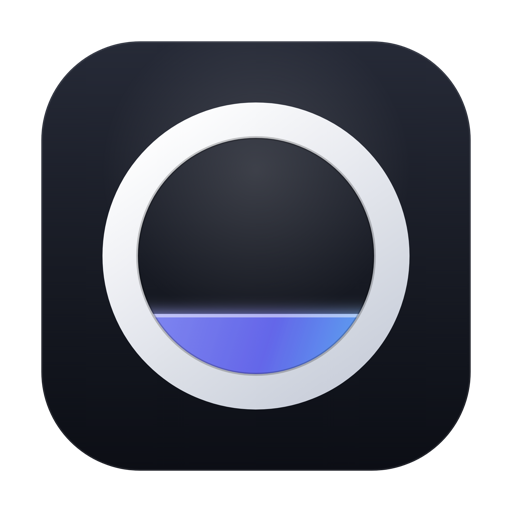
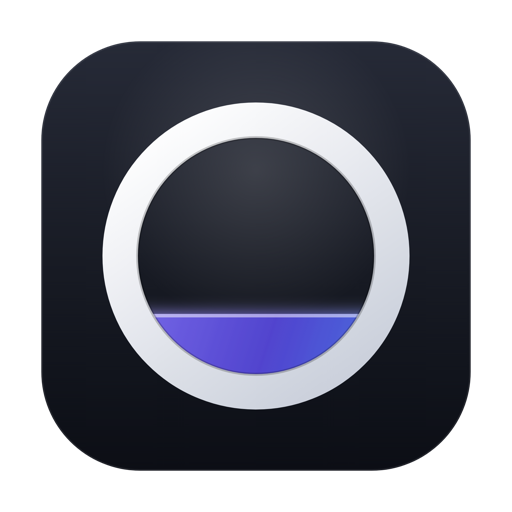
site: Tanzanite accent and the new mark
Matches the app's brand change: the product page's scoped accent moves from
indigo to Tanzanite, and the icon assets are regenerated from the app's own
build/icon.svg so the two can't drift.

The accent moves out of an inline style and into a `.theme-sightglass` class in
index.css, because it needs a light and a dark value and an inline style can
only carry one. The dark-mode lightness sits near 3:1 on white, which is too
low for the small numerals and labels this drives.

The portfolio's own amber is untouched — only /sightglass is scoped.

Changed region(s): [[0.3125, 0.5938, 0.6875, 0.75]]

diff --git a/src/pages/Sightglass.tsx b/src/pages/Sightglass.tsx
@@ -99,17 +99,11 @@ export default function Sightglass() {
   }, []);
 
   return (
-    // The page scopes its own accent — the app's indigo, not the portfolio's
-    // amber — so the section numerals, icons and rules read as Sightglass.
-    <main
-      className="pb-24"
-      style={
-        {
-          "--accent": "239 84% 67%",
-          "--ring": "239 84% 67%",
-        } as React.CSSProperties
-      }
-    >
+    // The page scopes its own accent — Tanzanite, the app's, not the
+    // portfolio's amber — so the section numerals, icons and rules read as
+    // Sightglass. Defined in index.css rather than inline: it needs a light and
+    // a dark value, which an inline style cannot express.
+    <main className="theme-sightglass pb-24">
       {/* ── Hero ─────────────────────────────────────────────────────────── */}
       <section className="grain relative overflow-hidden">
         <div className="pointer-events-none absolute inset-0 bg-grid opacity-[0.5] [mask-image:radial-gradient(ellipse_at_top,black,transparent_70%)]" />

diff --git a/src/index.css b/src/index.css
@@ -77,6 +77,19 @@
 
 @layer utilities {
   /* Faint ruled-grid backdrop */
+  /* Sightglass's brand accent — Tanzanite, matched to the app's scheme of the
+     same name. Two values because one lightness cannot serve both grounds:
+     the dark-mode value sits near 3:1 on white, too low for the small
+     numerals and labels this drives. */
+  .theme-sightglass {
+    --accent: 252 74% 50%;
+    --ring: 252 74% 50%;
+  }
+  .dark .theme-sightglass {
+    --accent: 252 88% 72%;
+    --ring: 252 88% 72%;
+  }
+
   .bg-grid {
     background-image:
       linear-gradient(to right, hsl(var(--grid-line) / 0.6) 1px, transparent 1px),
